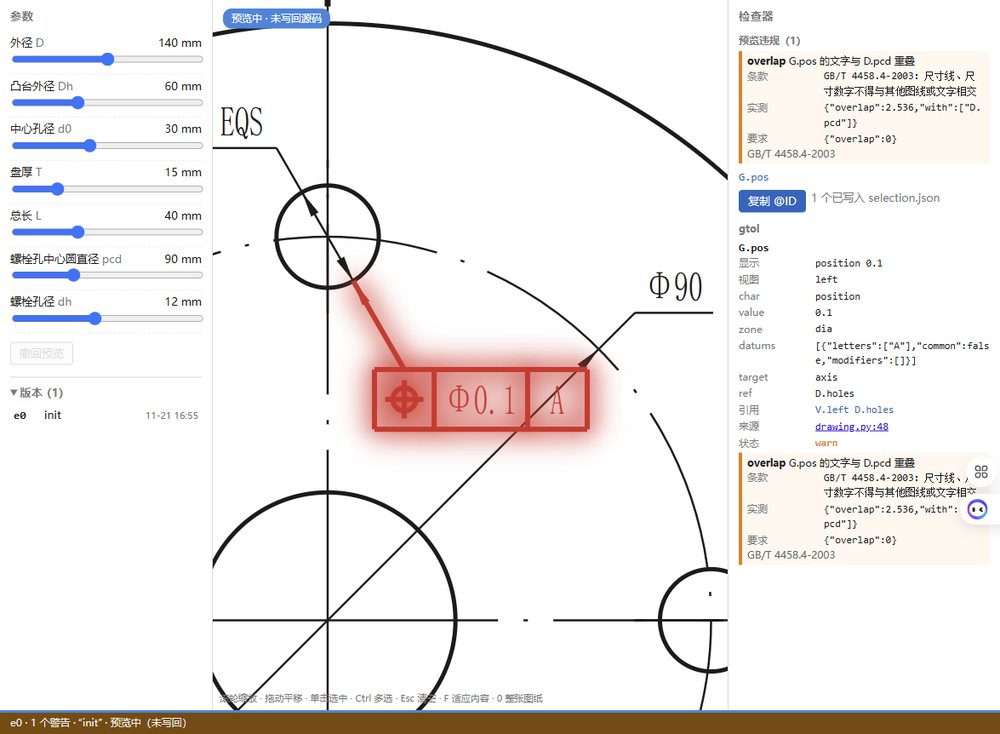
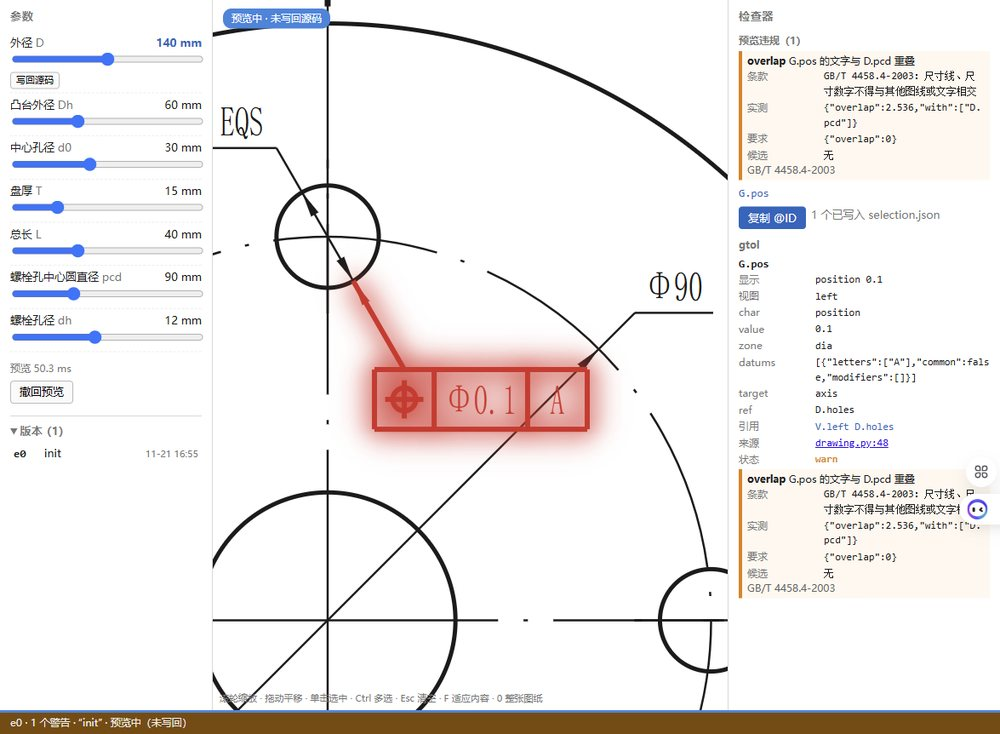
fix: B3 review round 1 - resolved view findings, four-field rendering, stale preview state

diff --git a/src/linercad/viewer/viewer.js b/src/linercad/viewer/viewer.js
@@ -5,7 +5,7 @@ const $ = (id) => document.getElementById(id);
 const S = { version: -1, model: null, byId: {}, sel: [], svg: null, vb: null, full: null, params: [],
   values: {}, dragging: false, previewTimer: null, previewSeq: 0, fitted: false,
   versions: [], pick: [], cmp: null, busy: false,
-  previewIds: new Set(), previewFindings: [], paramError: null };  // B3: preview violations on the canvas
+  previewIds: new Set(), previewFindings: [], paramError: null, resolved: {} };  // B3: preview violations on the canvas
 
 async function api(path, body) {
   const opt = body === undefined ? { headers: { "X-LCAD-Token": TOKEN } } : { method: "POST", body: JSON.stringify(body),
@@ -18,7 +18,7 @@ async function api(path, body) {
 async function poll() {
   try {
     const st = await api("/api/state");
-    if (!st.preview) clearPreviewFindings();
+    if (!st.preview && clearPreviewFindings()) { colour(); inspect(); }
     setStatus(st);
     if (st.version !== S.version) { S.version = st.version; await reload(st); }
   } catch (e) { $("st-text").textContent = "与服务断开：" + e; }
@@ -42,9 +42,10 @@ async function reload(st) {
   if (m.ok) {
     S.model = m; S.byId = {};
     for (const e of m.elements) S.byId[e.id] = e;
+    S.resolved = m.resolved || {};
     if (st.preview) {  // a page reload while a preview is active: keep the red marks (B3)
       S.previewFindings = m.issues || [];
-      S.previewIds = new Set((m.issues || []).map((f) => f.id));
+      S.previewIds = new Set((m.issues || []).map((f) => f.id).concat(Object.keys(S.resolved)));
     }
   }
   const r = S.cmp ? null : await fetch("/svg?v=" + S.version);  // a compare overlay stays up
@@ -81,8 +82,9 @@ function fitBox() {
 }
 
 function clearPreviewFindings() {
-  if (!S.previewIds.size && !S.previewFindings.length && !S.paramError) return;
+  if (!S.previewIds.size && !S.previewFindings.length && !S.paramError) return false;
   S.previewIds = new Set(); S.previewFindings = []; S.paramError = null;
+  return true;
 }
 
 function fmtObj(v) { return v && typeof v === "object" ? JSON.stringify(v) : String(v); }
@@ -90,17 +92,19 @@ function fmtObj(v) { return v && typeof v === "object" ? JSON.stringify(v) : Str
 // one finding with the E1 fields as the inspector and snapshot.json carry them
 function issueHtml(i) {
   const rows = [["条款", i.clause], ["实测", i.measured], ["要求", i.expected], ["候选", i.candidates]];
-  const kv = rows.filter(([, v]) => v !== undefined && v !== null && v !== "" &&
-      !(Array.isArray(v) && !v.length) &&
-      !(v && typeof v === "object" && !Array.isArray(v) && !Object.keys(v).length))
-    .map(([k, v]) => "<div class=\"k\">" + esc(k) + "</div><div class=\"v\">" + esc(fmtObj(v)) + "</div>").join("");
+  const kv = rows.map(([k, v]) => {
+    const empty = v === undefined || v === null || v === "" ||
+      (Array.isArray(v) && !v.length) ||
+      (v && typeof v === "object" && !Array.isArray(v) && !Object.keys(v).length);
+    return "<div class=\"k\">" + esc(k) + "</div><div class=\"v\">" + esc(empty ? "无" : fmtObj(v)) + "</div>";
+  }).join("");
   return "<div class=\"issue " + esc(i.severity) + "\"><b>" + esc(i.rule) + "</b> " + esc(i.message) +
     (kv ? "<div class=\"kv\">" + kv + "</div>" : "") +
     "<div class=\"muted\">" + esc(i.std || "") + "</div></div>";
 }
 
 // findings of the preview response: per-element issues + the red ids the canvas colours
-function applyFindings(findings, isPreview) {
+function applyFindings(findings, isPreview, resolved) {
   const byId = {};
   for (const f of findings || []) (byId[f.id] ||= []).push(f);
   for (const e of Object.values(S.byId)) {
@@ -109,7 +113,8 @@ function applyFindings(findings, isPreview) {
     else if (e.issues.length) e.status = "warn";
   }
   S.previewFindings = isPreview ? findings : [];
-  S.previewIds = new Set(isPreview ? findings.map((f) => f.id) : []);
+  S.previewIds = new Set(isPreview ? findings.map((f) => f.id).concat(Object.keys(resolved || {})) : []);
+  if (resolved !== undefined) S.resolved = resolved || {};
   colour();
 }
 
@@ -120,7 +125,8 @@ function colour() {
     g.classList.remove("st-error", "st-warn", "st-accepted", "st-violation");
     if (!e) continue;
     if (S.previewIds.has(e.id)) { g.classList.add("st-violation"); continue; }  // B3: red
-    const sev = e.issues.some((i) => i.severity === "error") ? "error" : e.issues.length ? "warn" : null;
+    const sev = e.issues.some((i) => i.severity === "error") ? "error" :
+      e.issues.length ? "warn" : S.resolved[e.id] || null;
     if (sev) g.classList.add("st-" + sev);
     else if ((e.status || "").startsWith("accepted")) g.classList.add("st-accepted");
   }
@@ -169,7 +175,11 @@ window.addEventListener("mouseup", (ev) => {
   if (ev.target.closest && ev.target.closest("#canvas")) click(pick(ev), ev.ctrlKey || ev.metaKey);
 });
 window.addEventListener("keydown", (ev) => {
-  if (ev.key === "Escape") { if (S.cmp) exitCompare(); else { S.sel = []; sendSel(); } }
+  if (ev.key === "Escape") {
+    if (S.cmp) exitCompare();
+    else if (S.previewIds.size || S.paramError) releasePreview();  // B3: Esc withdraws the preview
+    else { S.sel = []; sendSel(); }
+  }
   const idle = document.activeElement === document.body;
   if (ev.key === "f" && idle && S.svg) { setVB(fitBox()); viewChanged(); }
   if (ev.key === "0" && idle && S.svg) { setVB(S.full.slice()); viewChanged(); }
@@ -370,7 +380,7 @@ function schedulePreview() {
       return;
     }
     for (const row of rows) row.clearBad();
-    applyFindings(r.findings || [], Object.keys(values).length > 0);  // B3: the canvas turns red
+    applyFindings(r.findings || [], Object.keys(values).length > 0, r.resolved);  // B3: the canvas turns red
     S.paramError = null;
     msg.className = "msg";
     msg.textContent = Object.keys(values).length ? `预览 ${r.timing_ms} ms` +
@@ -385,13 +395,16 @@ async function writeback(name, value) {
   if (r.ok) { msg.className = "msg"; msg.textContent = `已写回 ${name}=${value}（${r.edit || ""}）`; S.version = -2; }
   else { msg.className = "msg bad"; msg.textContent = r.error.message + (r.error.hint ? "\n" + r.error.hint : ""); }
 }
-$("btn-reset").onclick = async () => {
+async function releasePreview() {
+  // withdraw the preview: values back to the committed ones, red marks and the panels clear
   S.values = {};
   const r = await api("/api/preview", { values: {} });
   clearPreviewFindings();
-  if (r && r.findings) applyFindings(r.findings, false);
-  S.version = -2; await loadParams();
-};
+  if (r && r.findings) applyFindings(r.findings, false, r.resolved);
+  S.version = -2;
+  await loadParams();
+}
+$("btn-reset").onclick = () => releasePreview();
 
 // ---- versions and compare (M3 S2) -----------------------------------------------------------------
 const vref = (v) => v.edit || v.commit;

diff --git a/src/linercad/viewer/__init__.py b/src/linercad/viewer/__init__.py
@@ -211,6 +211,7 @@ class Viewer:
             return {
                 "ok": True,
                 "version": self.version,
+                "resolved": self._resolved(r),
                 "content_bbox": _content_bbox(r.d),
                 "title_bbox": _title_bbox(r.d),
                 "elements": out,
@@ -302,6 +303,7 @@ class Viewer:
                 self.preview_seq = seq
             if not values:
                 self.preview = None
+                self.param_errors = {}
                 self.version += 1
                 self._write_snapshot()
                 findings = [_finding(f) for f in (self.res.findings if self.res else [])]
@@ -310,6 +312,7 @@ class Viewer:
                     "version": self.version,
                     "findings": findings,
                     "affected": [],
+                    "resolved": self._resolved(self.res) if self.res else {},
                 }
             try:
                 res = build(self.dir, params=values)
@@ -336,6 +339,7 @@ class Viewer:
                 "timing_ms": ms,
                 "findings": [_finding(f) for f in res.findings],
                 "affected": [],
+                "resolved": self._resolved(res),
                 "stale_ops": stale,
             }
 
@@ -346,6 +350,35 @@ class Viewer:
         if r is None or not name:
             return []
         return [e.id for e in r.d._els.values() if e._prims and name in (e._covers or [])]
+
+    def _finding_targets(self, f, r):
+        """Drawn element ids a finding stands for. A finding whose id is not drawn itself (a view
+        such as V.top, or a parameter) is mapped to the elements that can be marked on the canvas."""
+        eid = f.get("id")
+        el = r.d._els.get(eid)
+        if el is not None and el._prims:
+            return [eid]
+        if isinstance(eid, str) and eid.startswith("V."):
+            view = eid[2:]
+            return [e.id for e in r.d._els.values() if e._prims and e._intent.get("view") == view]
+        if isinstance(eid, str) and eid.startswith("P."):
+            name = eid[2:]
+            return [e.id for e in r.d._els.values() if e._prims and name in (e._covers or [])]
+        return []
+
+    def _resolved(self, r):
+        """element id → severity for findings whose own id is not a drawn element (canvas marks)."""
+        out = {}
+        if r is None:
+            return out
+        for f in r.findings:
+            for eid in self._finding_targets(f, r):
+                if eid == f.get("id"):
+                    continue
+                sev = f.get("severity") or "warn"
+                if out.get(eid) != "error":
+                    out[eid] = "error" if sev == "error" else "warn"
+        return out
 
     def writeback(self, name, value):
         from .. import txn

diff --git a/tests/test_viewer.py b/tests/test_viewer.py
@@ -269,6 +269,7 @@ def test_preview_returns_e1_finding_fields(flange_dir):
     assert f["expected"]["overlap"] == 0.0  # E1 expectation
     assert f["candidates"] == [] and isinstance(f["candidates"], list)  # E1 candidates
     assert f["pack"] == "layout" and f["std"] == "GB/T 4458.4-2003"
+    assert r["resolved"] == {}  # every D=140 finding points at a drawn element directly
 
 
 def test_preview_findings_reach_model_and_snapshot(flange_dir):
@@ -306,6 +307,30 @@ def test_preview_param_rule_error_lists_affected_elements_only(flange_dir):
     assert {"message", "values", "hint", "candidates"} <= set(r["error"])
     # ParamError has no E1 finding fields: do not fabricate them
     assert not {"clause", "measured", "expected"} & set(r["error"])
+    snap = json.loads((flange_dir / ".linercad/snapshot.json").read_text(encoding="utf-8"))
+    assert snap["param_errors"]["error"]["id"] == "Dh" and snap["param_errors"]["affected"] == [
+        "D.Dh"
+    ]
+    # withdrawing the preview must also clear the param error from snapshot.json (B3 review)
+    assert v.do_preview({})["ok"]
+    snap = json.loads((flange_dir / ".linercad/snapshot.json").read_text(encoding="utf-8"))
+    assert snap["param_errors"] == {}
+
+
+def test_non_drawn_finding_ids_are_resolved_to_view_elements(flange_dir):
+    v = Viewer(flange_dir)
+    assert v._finding_targets({"id": "V.left"}, v.res)  # a view has no prims: mark its elements
+    assert v._finding_targets({"id": "V.nope"}, v.res) == []
+    # a view-level finding (view_align) as the checks produce it: the canvas targets the view's elements
+    v.res.findings.append(
+        {"rule": "view_align", "id": "V.left", "severity": "warn", "message": "m"}
+    )
+    model = v.model()
+    resolved = model["resolved"]
+    left_ids = {e["id"] for e in model["elements"] if e["view"] == "left"}
+    assert left_ids and left_ids <= set(resolved)  # the canvas can mark the view's elements
+    assert all(resolved[i] in ("warn", "error") for i in left_ids)
+    assert "V.left" not in resolved  # the view id itself is not drawn
 
 
 def test_viewer_consumes_preview_findings_on_the_canvas():
@@ -323,6 +348,9 @@ def test_viewer_consumes_preview_findings_on_the_canvas():
         "i.measured",
         "i.expected",
         "i.candidates",
+        "resolved",
+        "releasePreview",
+        "无",
         "条款",
         "实测",
         "要求",

diff --git a/docs/milestones/v0.1.1/evidence/b3-viewer-violations.md b/docs/milestones/v0.1.1/evidence/b3-viewer-violations.md
@@ -19,7 +19,7 @@ uv run lcad -C <临时目录>\flange view --port 0 --no-open   # 打开输出的
 浏览器里：
 
 1. 参数栏把「外径 D」滑到 **140**（预览态，画布左上角显示「预览中（未写回）」）。
-2. 画布上左视图的 G.pos 形位公差框格变**红**（`g.st-violation`，`rgb(214, 39, 40)`）；检查器顶部「预览违规（1）」列出 `overlap G.pos`，并显示条款 / 实测 / 要求 / 候选；点该行下面的 `G.pos` 可选中元素，元素详情里同样有这四个字段（见截图 1）。
+2. 画布上左视图的 G.pos 形位公差框格变**红**（`g.st-violation`，`rgb(214, 39, 40)`）；检查器顶部「预览违规（1）」列出 `overlap G.pos`，并**始终**显示条款 / 实测 / 要求 / 候选四个字段（空容器显示「无」，本例如候选为「无」）；点该行下面的 `G.pos` 可选中元素，元素详情里同样有这四个字段（见截图 1）。
 3. 把 D 拖回 120（或点「撤回预览」）→ 红框与「预览违规」消失、画布恢复；此时 `snapshot.json` 的 `issues` 也回到空（见截图 2）。
 
 截图（本目录，小图）：
@@ -41,10 +41,10 @@ uv run lcad -C <临时目录>\flange view --port 0 --no-open   # 打开输出的
 
 ## 4. 代码改动
 
-- `src/linercad/viewer/__init__.py`：`FINDING_KEYS` / `_finding()`；`model()`、`_write_snapshot()`、`do_preview()` 输出 E1 字段；预览成功返回 `findings`；参数规则失败返回 `affected` 与 ParamError 原有字段（次要路径，不改 E1 字段语义）。
-- `viewer/viewer.js`：`applyFindings()` 消费 preview 的 findings → 每个元素的 issues + `previewIds`；`colour()` 给违规元素加 `st-violation`（红色，优先于选中 / hover 色）；检查器新增「预览违规」面板与四字段（条款 / 实测 / 要求 / 候选）、ParamError 面板（值 / 提示 / 候选）；页面 reload 且预览仍在时从 model 复原；预览结束清空。
+- `src/linercad/viewer/__init__.py`：`FINDING_KEYS` / `_finding()`；`model()`、`_write_snapshot()`、`do_preview()` 输出 E1 字段；预览成功返回 `findings` 与 `resolved`（finding id 本身不是可画元素时映射到的元素，如 `V.top` → 该视图的元素）；参数规则失败返回 `affected` 与 ParamError 原有字段（次要路径，不改 E1 字段语义）；撤回预览同时清空 snapshot.json 的 `param_errors`。
+- `viewer/viewer.js`：`applyFindings()` 消费 preview 的 findings → 每个元素的 issues + `previewIds`；`colour()` 给违规元素加 `st-violation`（红色，优先于选中 / hover 色）；检查器新增「预览违规」面板与四字段（条款 / 实测 / 要求 / 候选，空容器显示「无」）、ParamError 面板（值 / 提示 / 候选）；页面 reload 且预览仍在时从 model 复原（含 `resolved`）；预览结束 / Esc / 撤回预览清空并重绘。
 - `viewer/viewer.css`：`g.st-violation` 与选中 / hover 组合的红色规则。
-- `tests/test_viewer.py`：G2 先失败（5 failed）再实现；新增 6 个测试（preview findings 四字段、model / snapshot 同步、撤回后清空、ParamError affected 且不造字段、viewer.js / css 消费、HTTP 预览接口），并保留原有 issue 颜色与服务守卫测试。
+- `tests/test_viewer.py`：G2 先失败（5 failed）再实现；新增 7 个测试（preview findings 四字段、model / snapshot 同步、撤回后清空、ParamError affected 且不造字段、view-level finding 映射到视图元素、viewer.js / css 消费、HTTP 预览接口），并保留原有 issue 颜色与服务守卫测试。
 - 未改 `commands.py` / `examples/` / check 规则。
 
 ## 5. 验证
